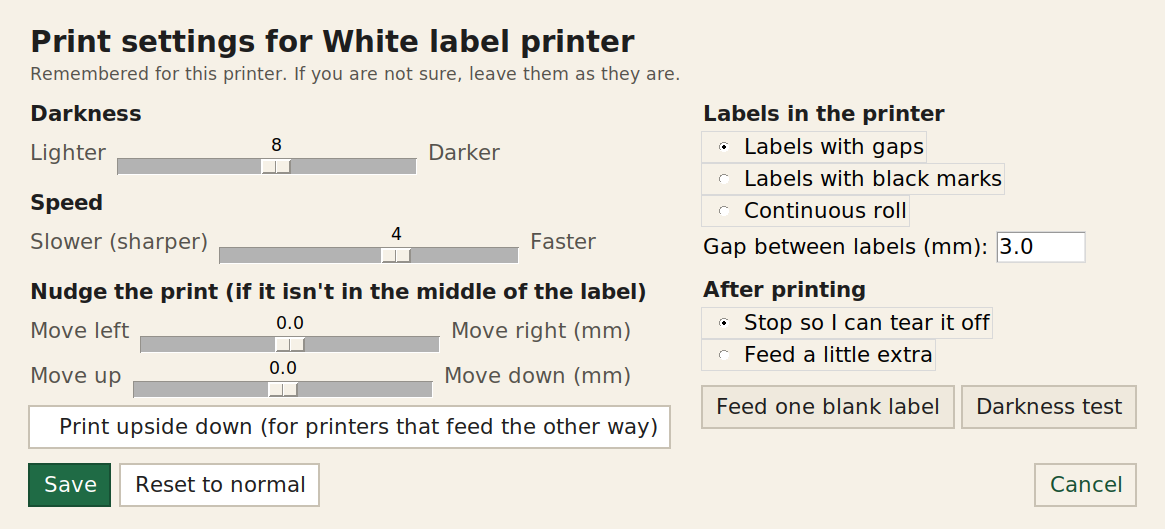
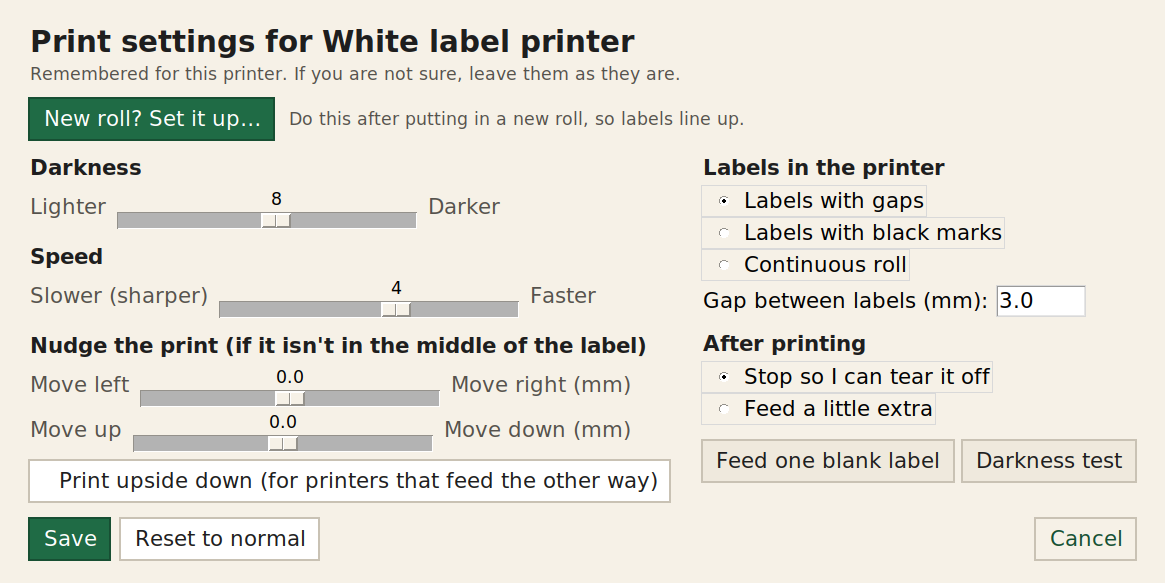
New roll window: fix opening, fit laptop screens; reminder buttons, printer arrow (1.3.0)

Changed region(s): [[0.0, 0.0302, 0.9888, 0.9679], [0.8961, 0.8771, 0.9888, 0.9679]]

diff --git a/food_labeler/picture_dialogs.py b/food_labeler/picture_dialogs.py
@@ -687,26 +687,32 @@ class RollSetupDialog(Modal):
 
         for text, pady in (("1.  " + calibrate.STEP1, (14, 2)),
                            ("2.  " + calibrate.STEP2, (12, 2))):
-            tk.Label(left, text=text, font="ui_bold", bg=BG, fg=INK, wraplength=340,
+            tk.Label(left, text=text, font="ui_bold", bg=BG, fg=INK, wraplength=600,
                      justify="left").pack(anchor="w", pady=pady)
         tk.Label(left, text="Label size", font="ui", bg=BG, fg=MUTED).pack(anchor="w")
         self.stock = tk.StringVar(value=app.doc.stock if app.doc.stock in stocks.STOCKS
                                   else stocks.DEFAULT_STOCK)
-        for sid in stocks.ORDER:
-            tk.Radiobutton(left, text=stocks.STOCKS[sid].name, variable=self.stock, value=sid,
-                           font="ui", bg=BG, activebackground=BG).pack(anchor="w")
+        sizes = tk.Frame(left, bg=BG)       # two columns, so the window fits a laptop
+        sizes.pack(anchor="w")
+        for n, sid in enumerate(stocks.ORDER):
+            tk.Radiobutton(sizes, text=stocks.STOCKS[sid].name, variable=self.stock, value=sid,
+                           font="ui", bg=BG, activebackground=BG).grid(
+                row=n // 2, column=n % 2, sticky="w", padx=(0, 12))
         tk.Label(left, text="Kind of roll", font="ui", bg=BG, fg=MUTED).pack(anchor="w",
                                                                              pady=(8, 0))
         self.media = tk.StringVar(value=calibrate.clean_media(self.ps.get("media")))
-        for k, text in calibrate.MEDIA.items():
-            tk.Radiobutton(left, text=text, variable=self.media, value=k, font="ui", bg=BG,
-                           activebackground=BG, command=self._media_changed).pack(anchor="w")
+        kinds = tk.Frame(left, bg=BG)
+        kinds.pack(anchor="w")
+        for n, (k, text) in enumerate(calibrate.MEDIA.items()):
+            tk.Radiobutton(kinds, text=text, variable=self.media, value=k, font="ui", bg=BG,
+                           activebackground=BG, command=self._media_changed).grid(
+                row=n // 2, column=n % 2, sticky="w", padx=(0, 12))
 
         _heading(right, "3.  " + calibrate.STEP3, pady=(14, 2))
         self.note = tk.Label(right, text="", font="ui", bg=BG, fg=INK, wraplength=360,
                              justify="left")
         self.note.pack(anchor="w")
-        self.go = button(right, "Set it up", self._setup, "primary", font="big")
+        self.go = button(right, "Set it up", self._set_it_up, "primary", font="big")
         self.go.pack(anchor="w", pady=(8, 0))
         # shown once the roll has been set up
         self.after_frame = tk.Frame(right, bg=BG)
@@ -722,7 +728,7 @@ class RollSetupDialog(Modal):
         button(row, "It's off — help me", self._help, "warn").pack(side="left")
 
         self.fallback = tk.Label(b, text=calibrate.still_not_right(fam), font="small", bg=BG,
-                                 fg=MUTED, wraplength=680, justify="left")
+                                 fg=MUTED, wraplength=980, justify="left")
         self.fallback.pack(anchor="w", pady=(16, 0))
         row = tk.Frame(b, bg=BG)
         row.pack(fill="x", pady=(14, 0))
@@ -754,7 +760,7 @@ class RollSetupDialog(Modal):
             info["print"] = ps
         self.ps = ps
 
-    def _setup(self):
+    def _set_it_up(self):  # not "_setup": tkinter uses that name itself
         stock, media = self._stock(), self.media.get()
         cfgp = self.app.printer_config(self.p)
         try:

diff --git a/food_labeler/app.py b/food_labeler/app.py
@@ -266,12 +266,13 @@ class App:
         # shown only when the label size differs from the roll last set up here
         self.roll_notice = tk.Frame(pp, bg=WARN_BG, padx=8, pady=4)
         self.roll_lbl = tk.Label(self.roll_notice, text="", font="ui", bg=WARN_BG, fg=INK,
-                                 anchor="w", justify="left", wraplength=420)
-        self.roll_lbl.pack(side="left", fill="x", expand=True)
-        button(self.roll_notice, "No, same roll", self._same_roll, "quiet").pack(
-            side="right", padx=(6, 0))
-        button(self.roll_notice, "Set up", self._roll_notice_clicked, "chip").pack(
-            side="right")
+                                 anchor="w", justify="left", wraplength=520)
+        self.roll_lbl.pack(anchor="w", fill="x")
+        # buttons on their own line under the words, so neither gets cut off
+        nb = tk.Frame(self.roll_notice, bg=WARN_BG)
+        nb.pack(anchor="w", pady=(4, 0))
+        button(nb, "Set up", self._roll_notice_clicked, "chip").pack(side="left")
+        button(nb, "No, same roll", self._same_roll, "quiet").pack(side="left", padx=(6, 0))
 
         # --- bottom: copies + PRINT
         bottom = tk.Frame(r, bg=BG, padx=14, pady=8)
@@ -1087,7 +1088,7 @@ class App:
             text = "No printer found \u2014 plug it in, then press \u201cLook for printers again\u201d"
         else:
             text = "Pick your printer here"
-        self.printer_btn.configure(text=text + "  \u25BE")
+        self.printer_btn.configure(text=text + "\u00A0\u00A0\u25BE")  # no-break spaces: the arrow stays with the name
         self.refresh_status()
         self.refresh_roll_notice()
         self._rerender_if_dpi_changed()

diff --git a/tools/screenshot.py b/tools/screenshot.py
@@ -271,6 +271,33 @@ def print_settings():
     return True
 
 
+@step
+def roll_setup():
+    from food_labeler import printers
+    from food_labeler.picture_dialogs import RollSetupDialog
+    p = printers.Printer(id="usb:1-1.4", kind="tspl", model="4B-LP610BT", method="device",
+                         target="/dev/usb/lp0", port="USB port 1-1.4", vidpid="0483:2025")
+    d = RollSetupDialog(root, app, p)
+    d.deiconify()
+    root.after(900, lambda: (grab("screenshot-roll-setup.png", d), d.destroy(), nxt()))
+    return True
+
+
+@step
+def roll_notice():
+    # the printer "is connected" and last had a different roll set up
+    from food_labeler import printers
+    p = printers.Printer(id="usb:1-1.4", kind="tspl", model="4B-LP610BT", method="device",
+                         target="/dev/usb/lp0", port="USB port 1-1.4", vidpid="0483:2025")
+    app.found = [p]
+    cfg.printer_info("usb:1-1.4")["roll"] = {"stock": "medium", "media": "gap",
+                                             "date": "2026-11-01", "same": []}
+    app.refresh_printer_combo()
+    app.refresh_roll_notice()
+    root.after(900, lambda: (grab("screenshot-roll-notice.png"), nxt()))
+    return True
+
+
 def nxt():
     if not steps:
         root.after(100, root.destroy)

diff --git a/CHANGELOG.md b/CHANGELOG.md
@@ -4,7 +4,7 @@ All notable changes to Food Labeler are listed here. Version numbers follow
 [Semantic Versioning](https://semver.org/); the number itself lives in
 `food_labeler/__init__.py`.
 
-## 1.3.0 — unreleased
+## 1.3.0 — 2026-11-21
 
 New roll? Set it up.
 
@@ -35,6 +35,9 @@ New roll? Set it up.
   roll with that printer's own button, shown in the window. The built-in
   LP610BT-compatible, Zebra ZP450 and Zebra entries have it.
 - `--selftest` also checks the set-up jobs and the test label.
+- The new-roll reminder under the printer keeps its buttons on their own
+  line, so *Set up* and *No, same roll* are never cut off.
+- A long printer name no longer pushes the list's arrow onto its own line.
 
 ## 1.2.0 — 2026-11-21
 

diff --git a/README.md b/README.md
@@ -258,6 +258,8 @@ printing lands on the labels and not across the gaps between them.
    box sits on the label, press **Looks right**. If not, press **It's off —
    help me** for what to try.
 
+![Setting up a new roll](docs/screenshot-roll-setup.png)
+
 The window also says how to set up a roll with the printer's own feed
 button, in case that is ever needed. Food Labeler remembers which roll you
 set up on each printer. When you pick a different label size, a short line
